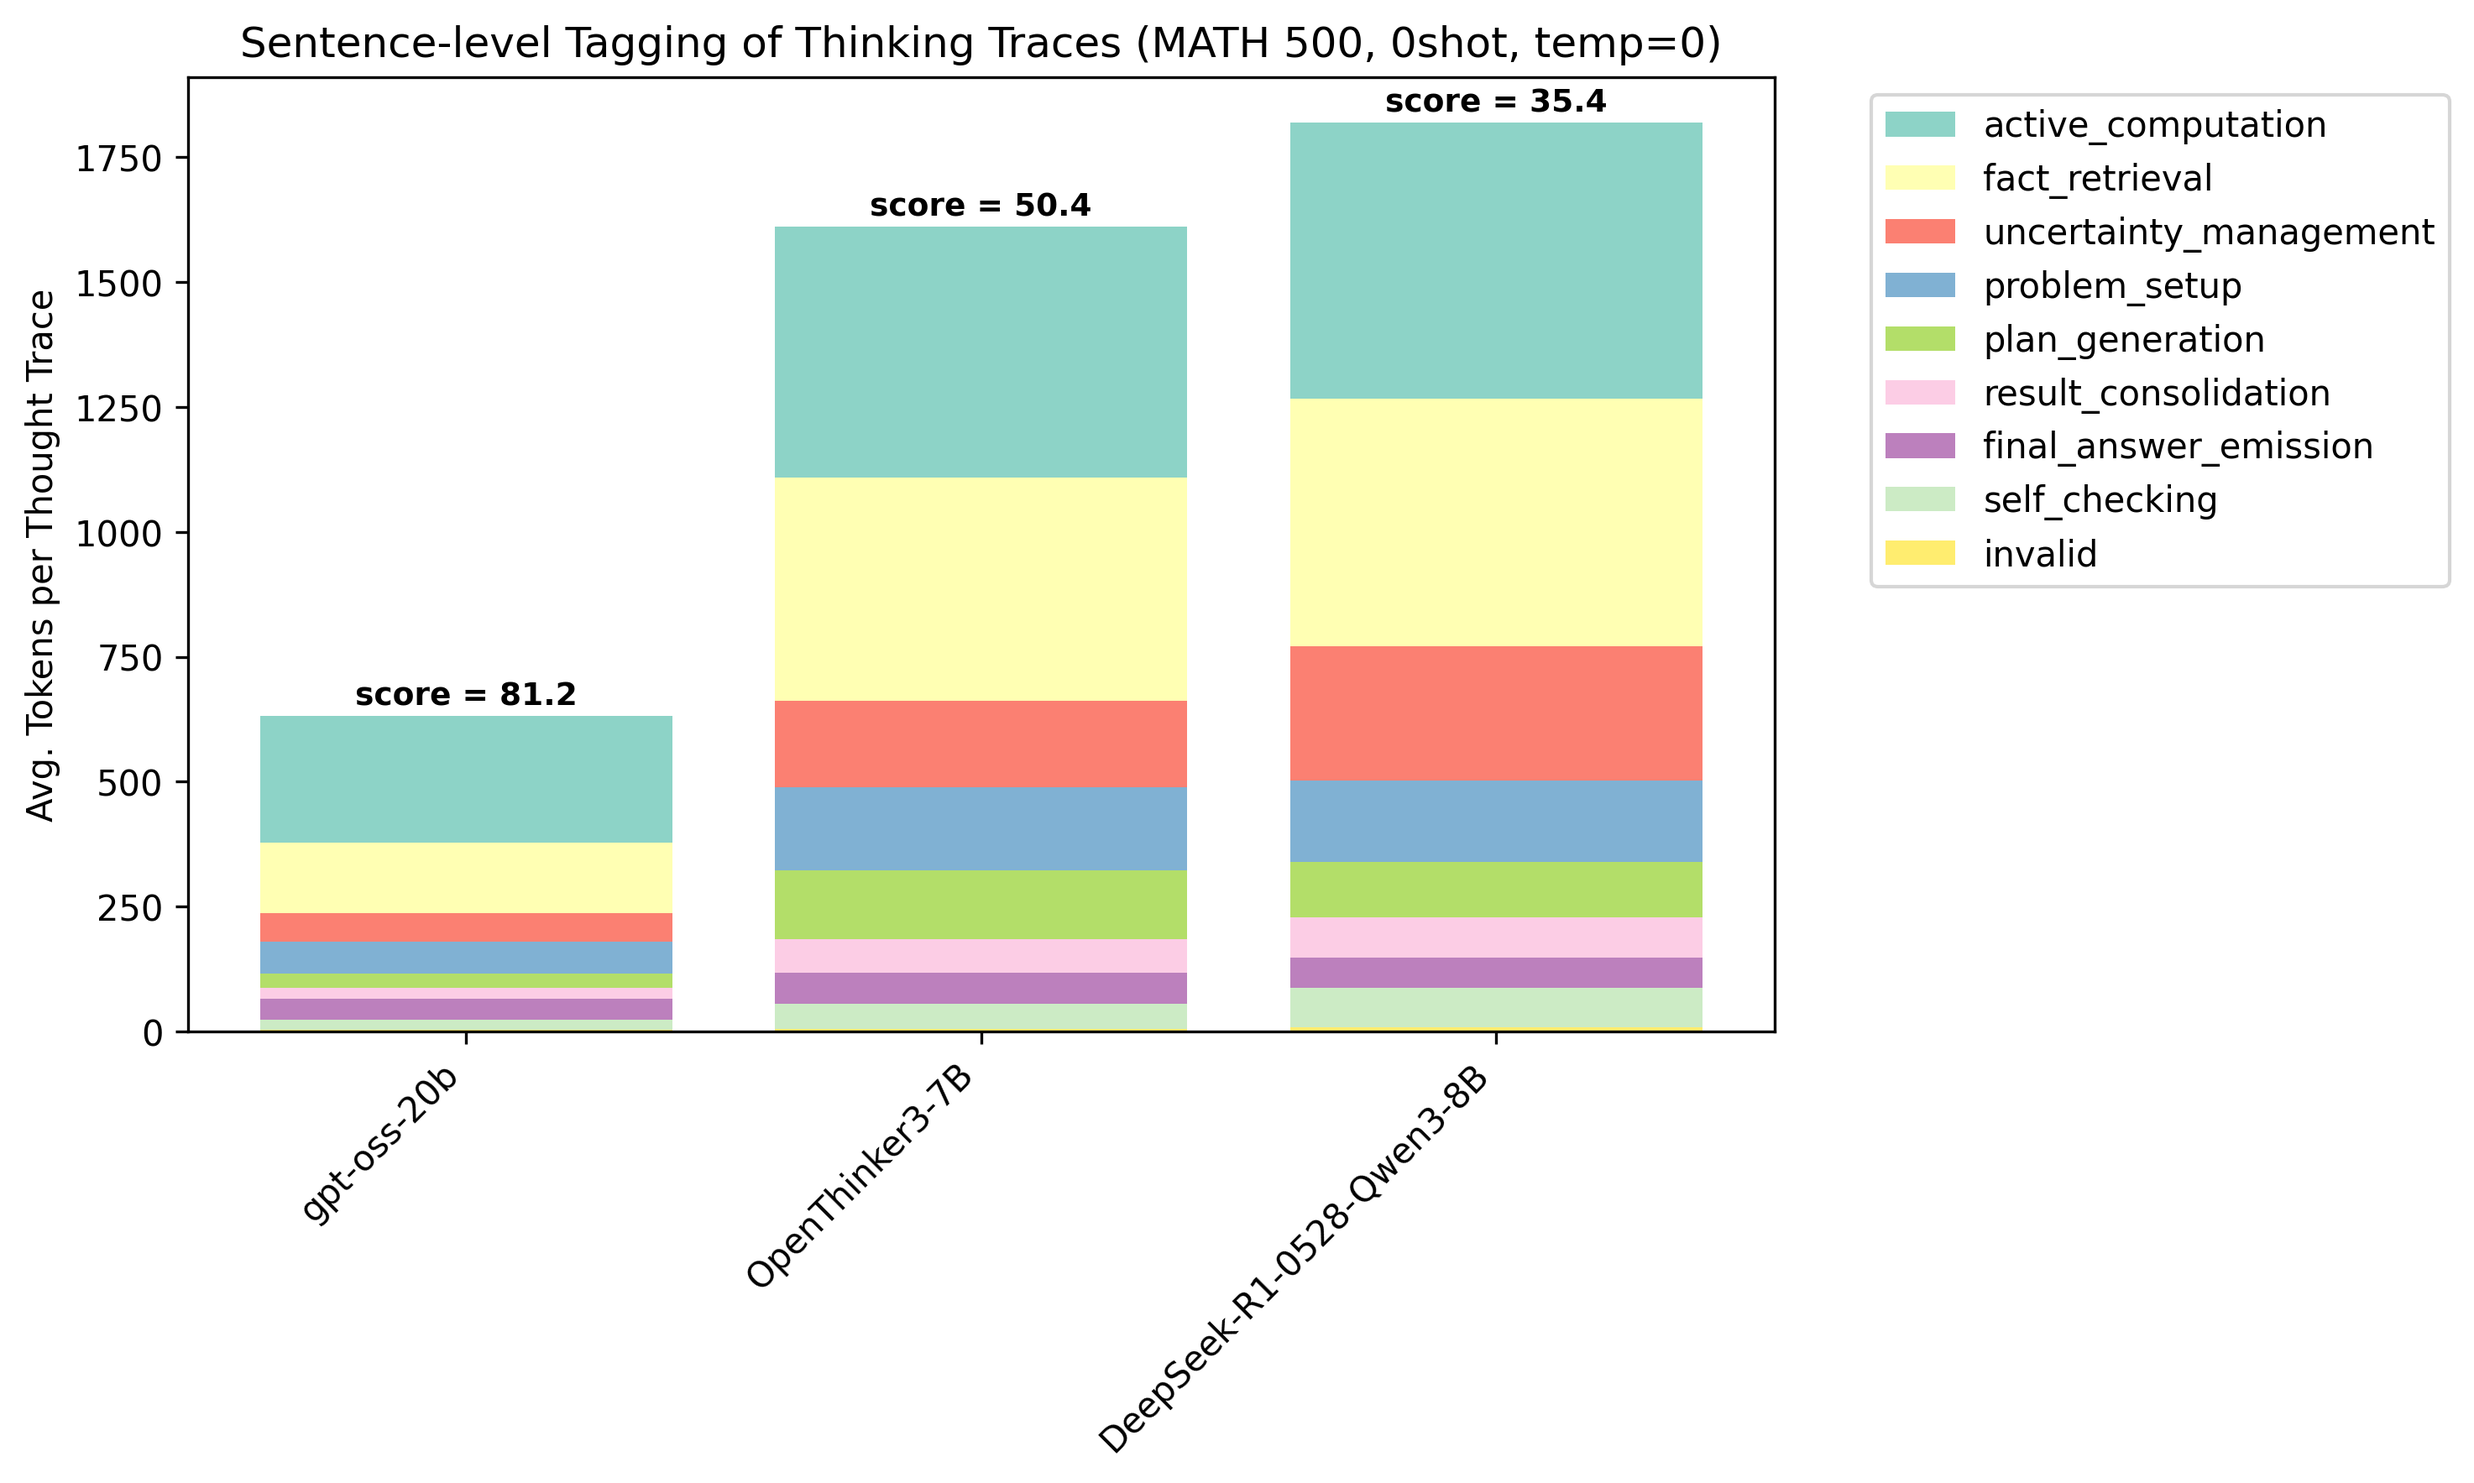
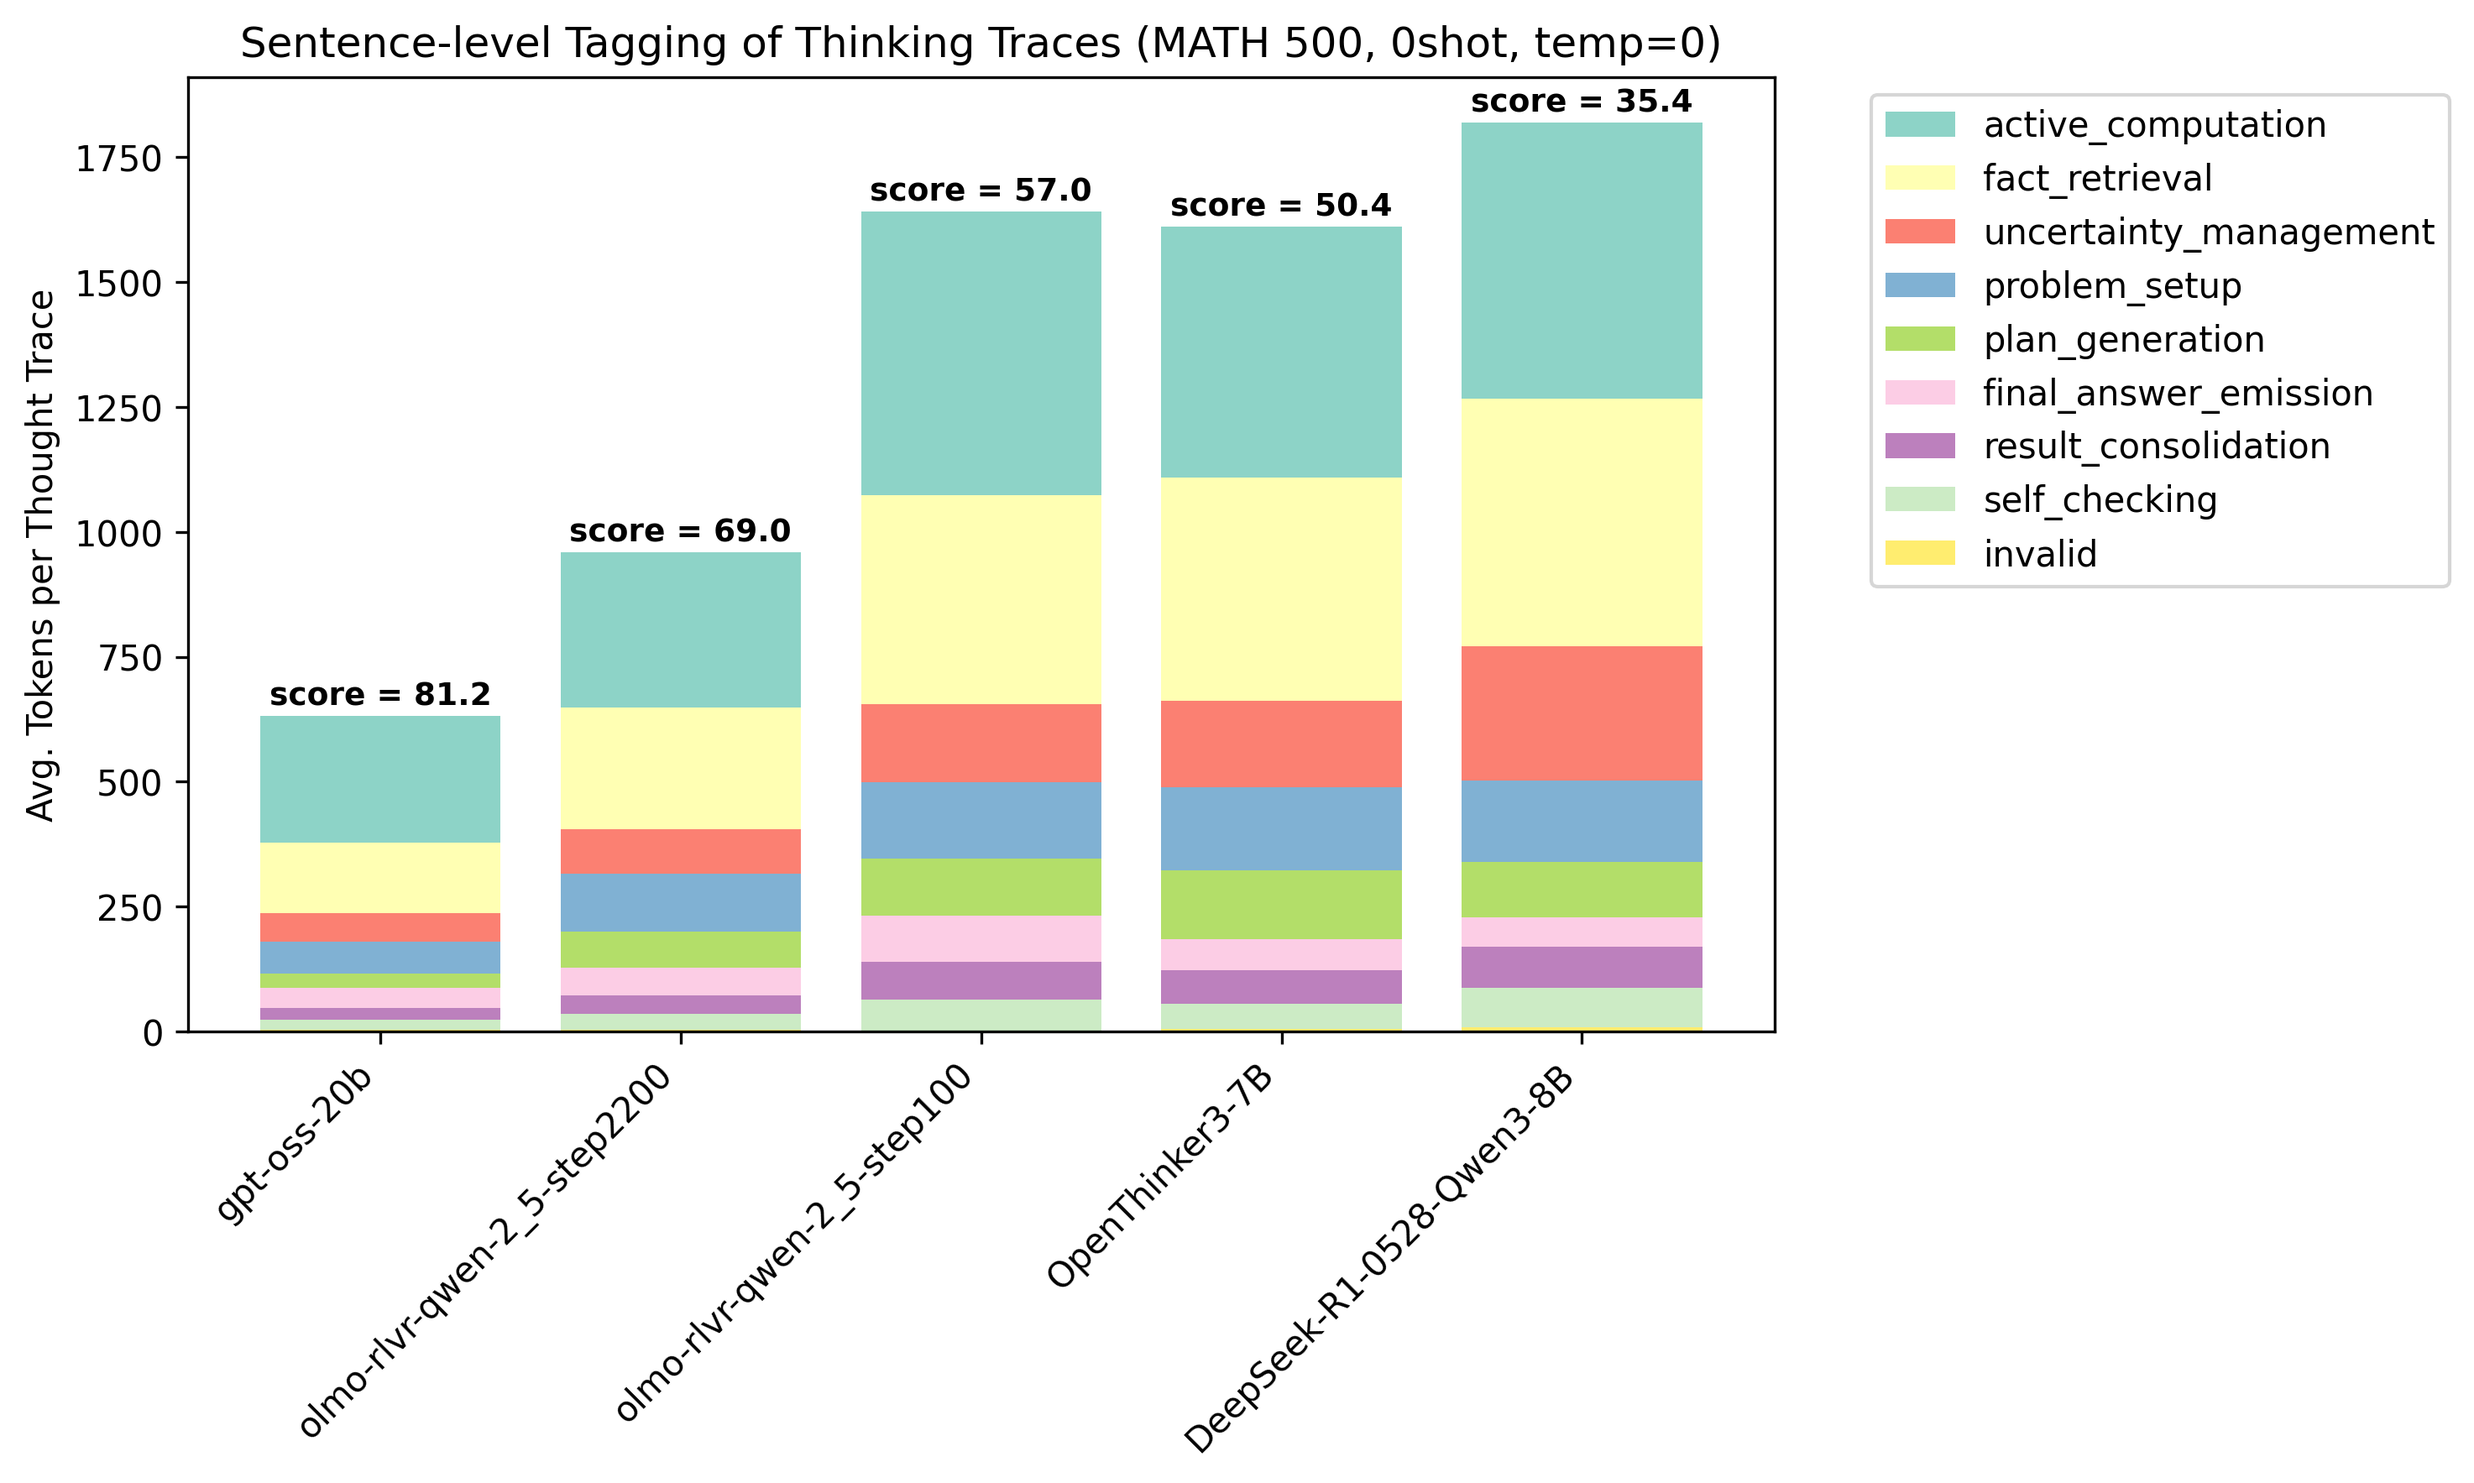
add models

diff --git a/README.md b/README.md
@@ -59,6 +59,21 @@ python src/annotate_sentences.py -t minerva_500:cot -m DeepSeek-R1-0528-Qwen3-8B
 python src/annotate_sentences.py -t minerva_500:cot -m gpt-oss-20b
 ```
 
+**Local models**
+
+```sh
+# see checkpoints
+tree -L 2 /oe-eval-default/ai2-llm/checkpoints/davidh/OLMo-RLVR/
+
+# eval
+minieval -t minerva_500:cot -m /oe-eval-default/ai2-llm/checkpoints/davidh/OLMo-RLVR/1806rl_qwen2_5_integration_mix_12022__1__1750443080_checkpoints/step_100 -b vllm --writer.save_path out/olmo-rlvr-qwen-2_5-step100
+minieval -t minerva_500:cot -m /oe-eval-default/ai2-llm/checkpoints/davidh/OLMo-RLVR/1806rl_qwen2_5_integration_mix_12022__1__1750443080_checkpoints/step_2200 -b vllm --writer.save_path out/olmo-rlvr-qwen-2_5-step2200
+
+# annotate
+python src/annotate_sentences.py -t minerva_500:cot -m olmo-rlvr-qwen-2_5-step100
+python src/annotate_sentences.py -t minerva_500:cot -m olmo-rlvr-qwen-2_5-step2200
+```
+
 <details>
 <summary>Token-level annotation</summary>
 
@@ -98,3 +113,8 @@ python analysis/distribution.py
     - for different amounts of GPT OSS reasoning?
     - for different tasks?
     - for the subset of tasks with lots of tokens? a small amount of tokens?
+
+- Different properties of traces
+    - what % is spent developing towards the correct answers? compared to computation that is effectively thrown away?
+    - how many tokens in is the final answer suggested? (i.e., how long is spent checking the answer?)
+    - can we split "active computation" into computation for the original answer vs. checking the answer?
